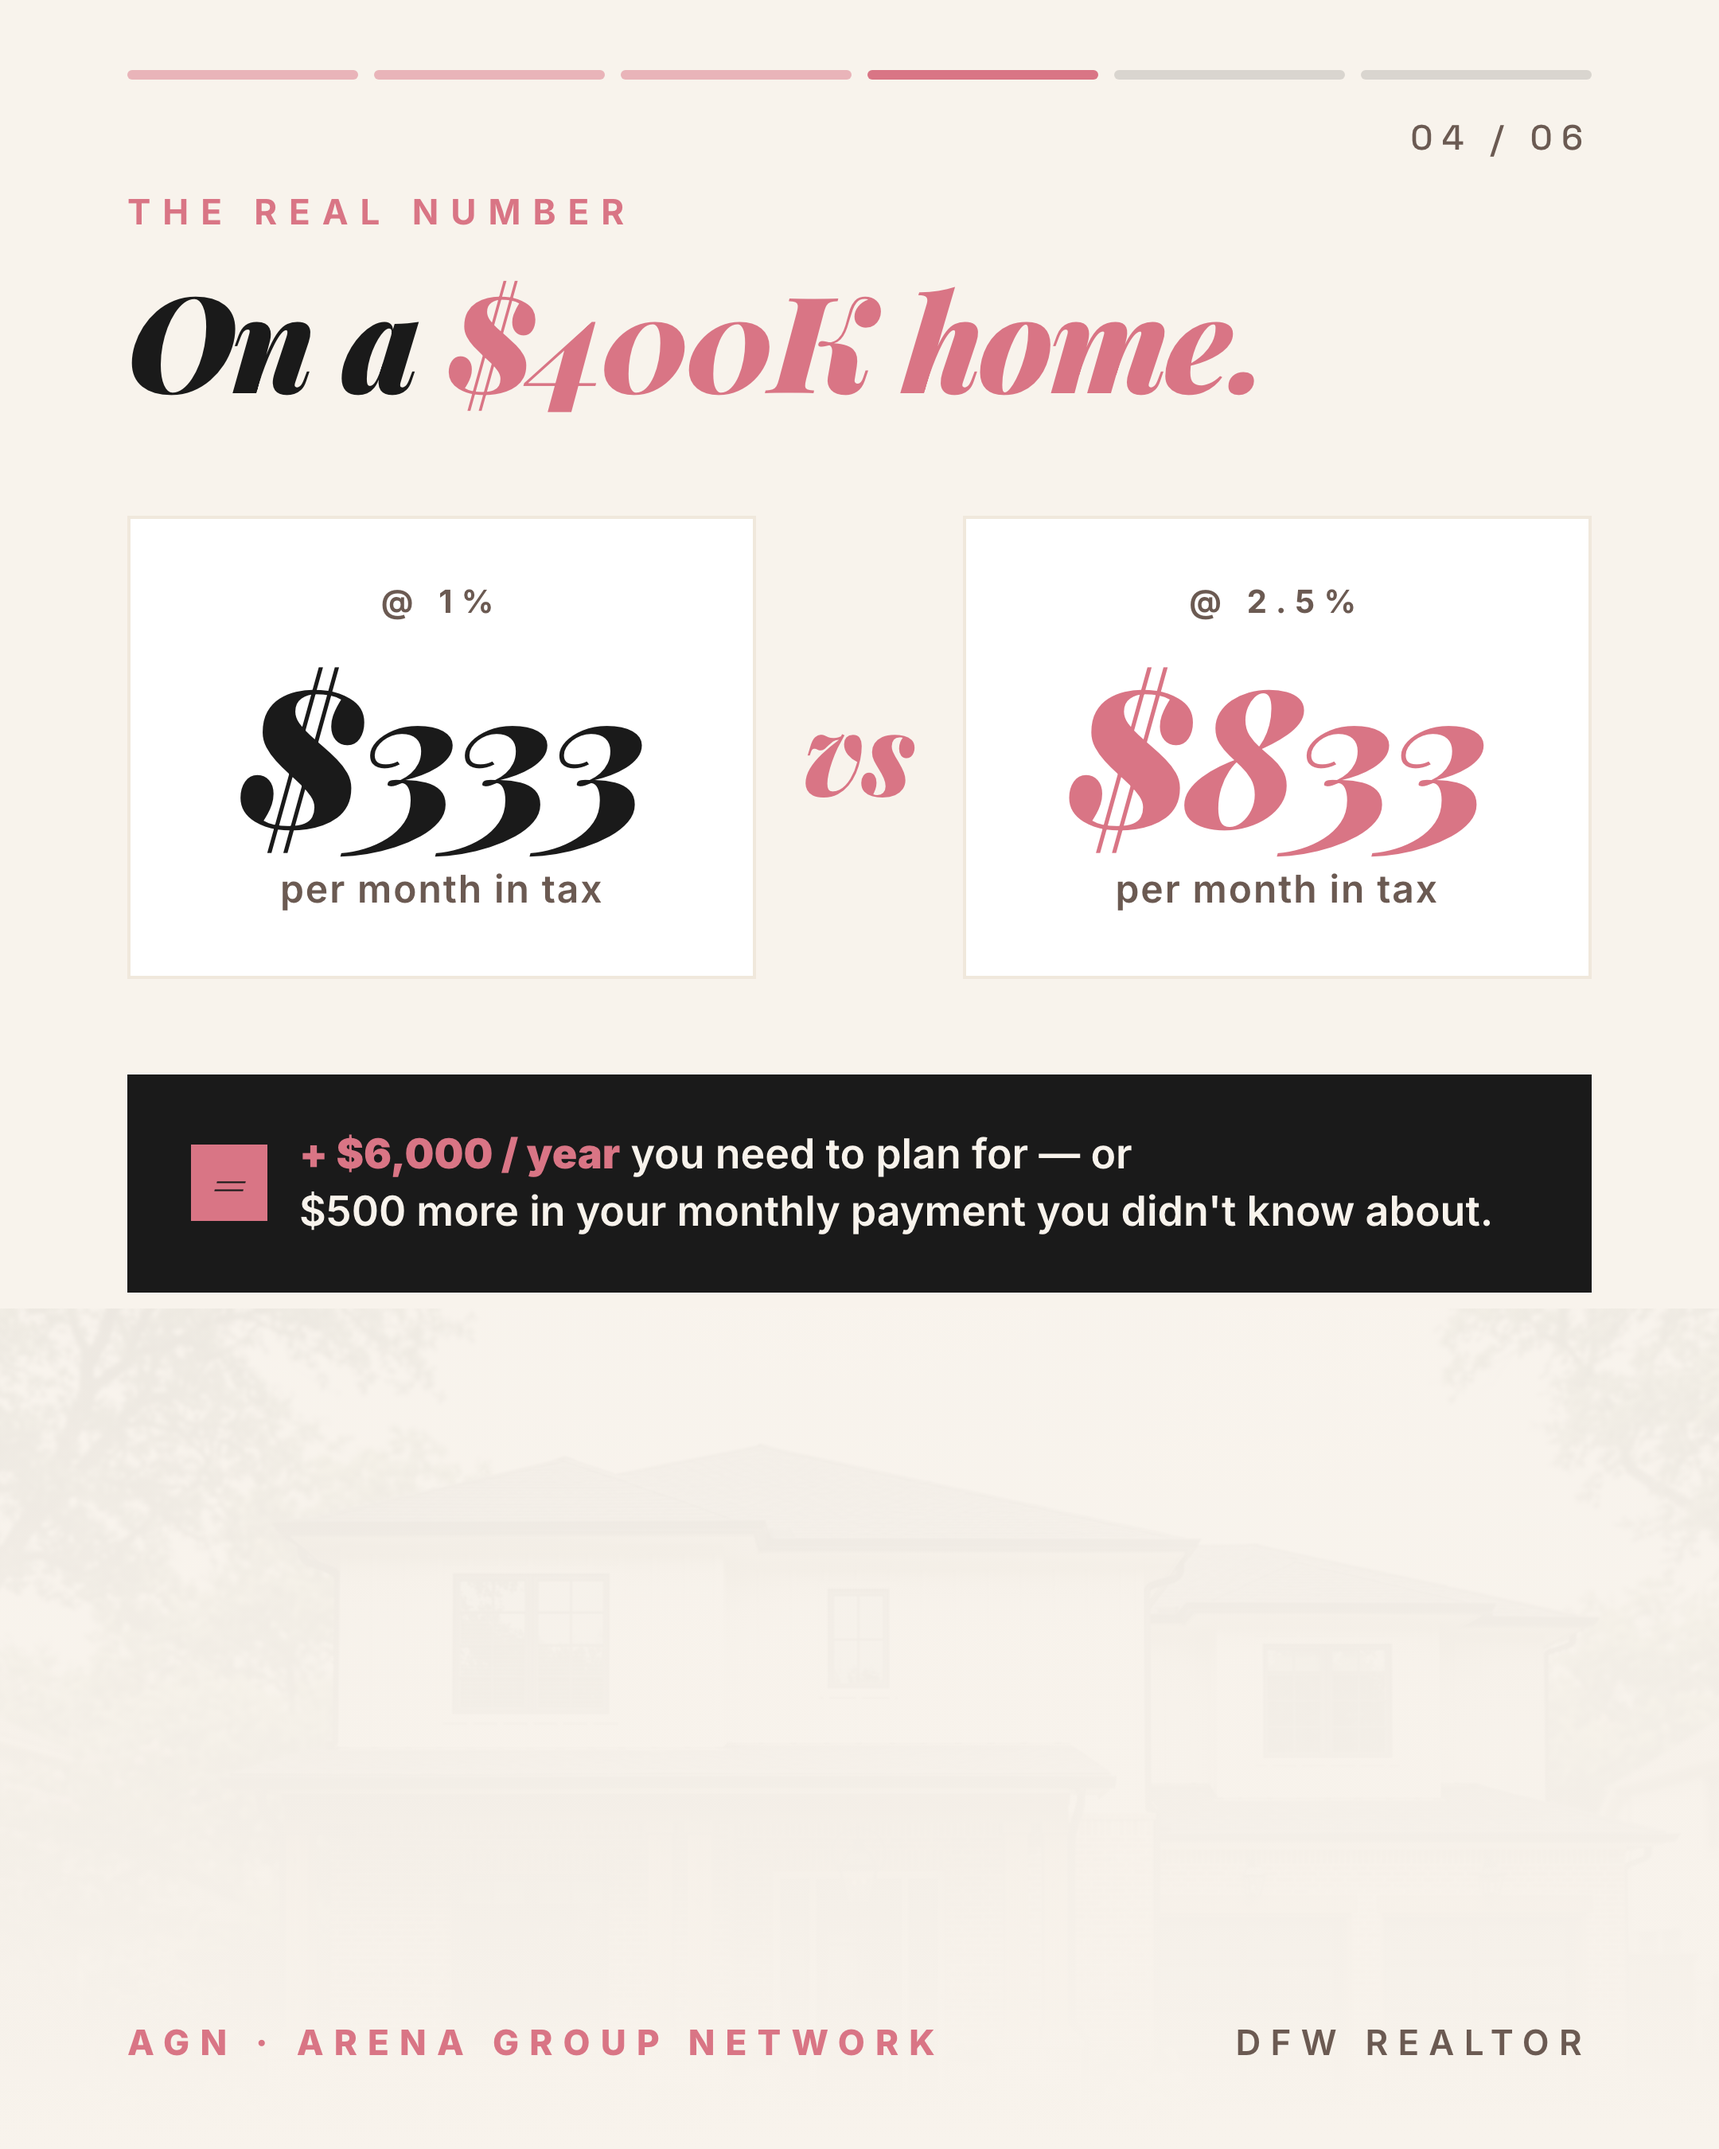
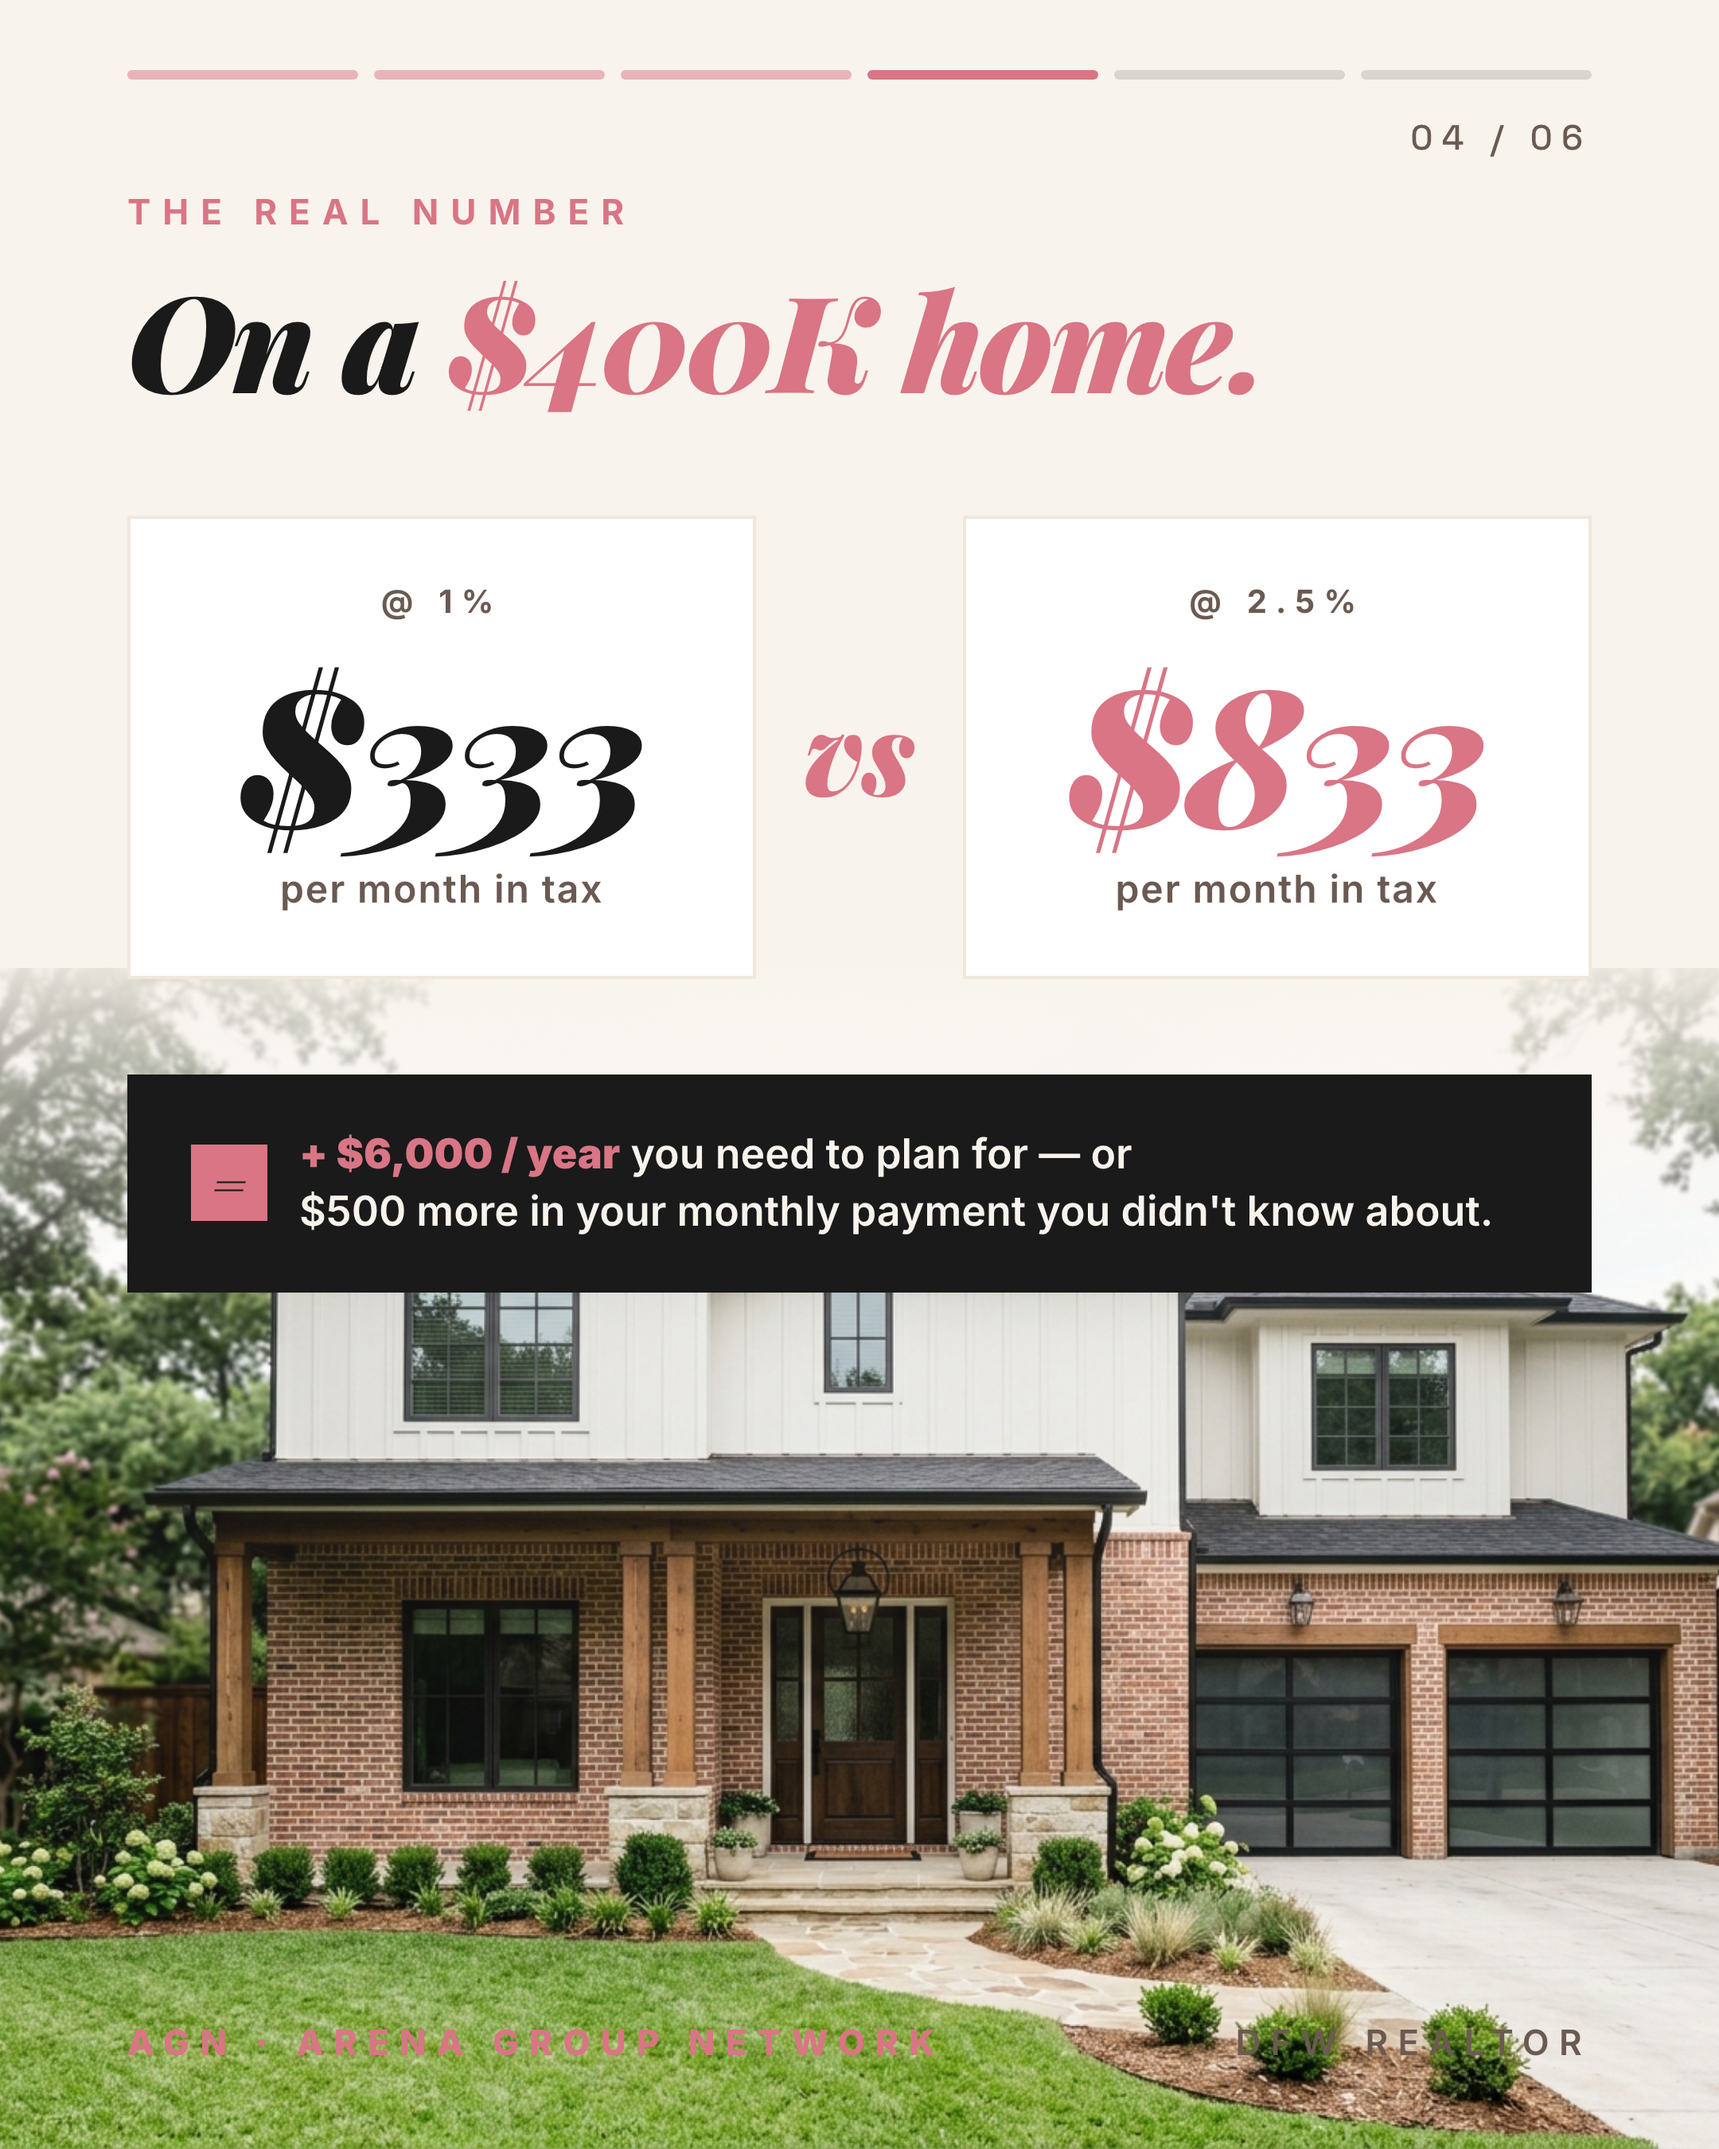
Fix slides: full-bleed aerial on 1, visible home on 4, circle removed from 6

diff --git a/assets/carousel-demo/slides.html b/assets/carousel-demo/slides.html
@@ -104,9 +104,9 @@
   }
   .cover .hero-img {
     position: absolute;
-    top: 0; right: 0;
-    width: 50%; height: 100%;
+    top: 0; left: 0; right: 0; bottom: 0;
     z-index: 0;
+    overflow: hidden;
   }
   .cover .hero-img img {
     width: 100%; height: 100%;
@@ -116,7 +116,8 @@
   .cover .hero-img::after {
     content: ''; position: absolute;
     top: 0; left: 0; right: 0; bottom: 0;
-    background: linear-gradient(90deg, var(--cream) 0%, transparent 30%, transparent 100%);
+    background:
+      linear-gradient(180deg, rgba(248,243,236,0.92) 0%, rgba(248,243,236,0.88) 38%, rgba(248,243,236,0.55) 60%, rgba(248,243,236,0.85) 100%);
   }
   .cover > *:not(.hero-img) { z-index: 2; }
   .cover .logo-block, .cover .main { position: relative; }
@@ -315,17 +316,17 @@
   }
   .math .bg-img img {
     position: absolute;
-    bottom: -10%;
-    left: 50%;
-    transform: translateX(-50%);
-    width: 110%;
-    opacity: 0.2;
-    filter: saturate(0.85);
+    bottom: 0;
+    left: 0;
+    width: 100%;
+    height: 55%;
+    object-fit: cover;
+    opacity: 1;
   }
   .math .bg-img::after {
     content: ''; position: absolute;
     top: 0; left: 0; right: 0; bottom: 0;
-    background: linear-gradient(180deg, var(--cream) 0%, rgba(248,243,236,0.7) 50%, var(--cream) 100%);
+    background: linear-gradient(180deg, var(--cream) 30%, rgba(248,243,236,0.92) 45%, rgba(248,243,236,0.1) 60%, transparent 100%);
   }
   .math > *:not(.bg-img) { z-index: 2; }
   .math > .eyebrow, .math > h2, .math > .panels, .math > .callout { position: relative; }
@@ -487,12 +488,7 @@
   }
   .cta > *:not(.map-bg) { z-index: 2; }
   .cta .top, .cta .middle, .cta .bottom { position: relative; }
-  .cta::after {
-    content: ''; position: absolute;
-    bottom: -200px; right: -200px; width: 600px; height: 600px;
-    border: 100px solid rgba(248,243,236,0.15);
-    border-radius: 50%;
-  }
+  /* (decorative circle removed) */
   .cta .top {
     display: flex; flex-direction: column; gap: 30px;
     z-index: 2;
